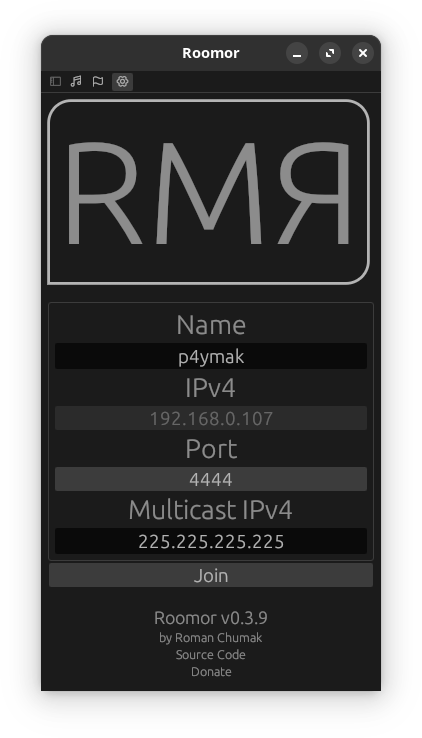
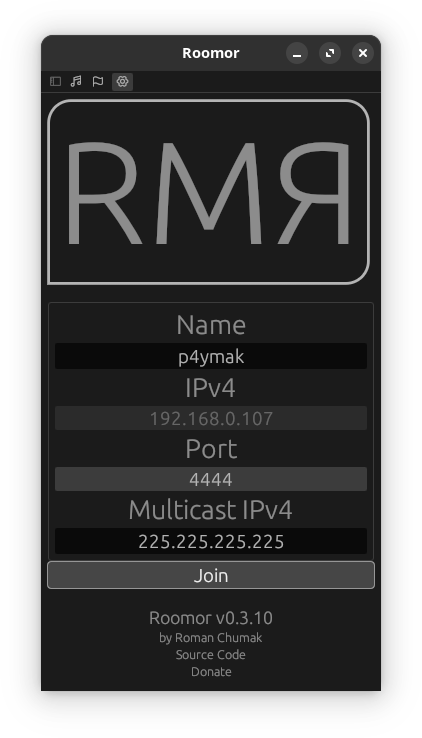
ask for shards fixed

Changed region(s): [[0.3389, 0.748, 0.6469, 0.8415], [0.8626, 0.748, 0.8934, 0.8103], [0.0924, 0.748, 0.1232, 0.8103]]

diff --git a/src/chat/inbox.rs b/src/chat/inbox.rs
@@ -1,7 +1,7 @@
 use super::{
     file::FileLink,
     message::{CheckSum, Command, Id, Part, ShardCount, UdpMessage, CRC},
-    networker::{NetWorker, TIMEOUT_SECOND},
+    networker::NetWorker,
     notifier::Repaintable,
     BackEvent, Content, Presence, Recepients, Seen, TextMessage,
 };
@@ -19,37 +19,18 @@ use std::{
 };
 
 pub type Shard = Vec<u8>;
-// pub const MAX_ATTEMPTS: u8 = 10;
 
 #[derive(Default)]
 pub struct Inbox(BTreeMap<Id, InMessage>);
 impl Inbox {
-    pub fn ask_for_shards(
-        &mut self,
-        networker: &mut NetWorker,
-        ctx: &impl Repaintable,
-        ip: Ipv4Addr,
-    ) {
-        self.0
-            .values_mut()
-            .filter(|m| m.sender == ip)
-            .filter(|m| {
-                SystemTime::now()
-                    .duration_since(m.ts)
-                    .is_ok_and(|d| d > TIMEOUT_SECOND * m.attempt as u32)
-            })
-            .for_each(|m| {
-                m.combine(networker, ctx).ok();
-            });
+    pub fn retain(&mut self, networker: &mut NetWorker, ctx: &impl Repaintable, delta: Duration) {
+        self.0.retain(|_, msg| {
+            !(SystemTime::now()
+                .duration_since(msg.ts)
+                .is_ok_and(|d| d > delta * msg.attempt.max(1) as u32)
+                && (msg.combine(networker, ctx).is_ok()))
+        });
     }
-    // pub fn retain(&mut self, networker: &mut NetWorker, ctx: &impl Repaintable, delta: Duration) {
-    //     self.0.retain(|_, msg| {
-    //         !(SystemTime::now()
-    //             .duration_since(msg.ts)
-    //             .is_ok_and(|d| d > delta)
-    //             && (msg.combine(networker, ctx).is_ok())) // || msg.attempt < MAX_ATTEMPTS))
-    //     });
-    // }
     pub fn insert(&mut self, id: Id, msg: InMessage) {
         self.0.insert(id, msg);
     }
@@ -212,12 +193,17 @@ impl InMessage {
                         break;
                     }
                     debug!("Asked to repeat shards #{range:?}");
-                    networker
-                        .send(
-                            UdpMessage::ask_to_repeat(self.id, Part::AskRange(range)),
-                            Recepients::One(self.sender),
-                        )
-                        .ok();
+                    if matches!(
+                        networker.peers.online_status(Recepients::One(self.sender)),
+                        Presence::Online
+                    ) {
+                        networker
+                            .send(
+                                UdpMessage::ask_to_repeat(self.id, Part::AskRange(range)),
+                                Recepients::One(self.sender),
+                            )
+                            .ok();
+                    }
                 }
             }
 

diff --git a/src/chat/mod.rs b/src/chat/mod.rs
@@ -10,7 +10,7 @@ use self::{
     file::{FileEnding, FileLink},
     inbox::InMessage,
     message::{new_id, DATA_LIMIT_BYTES, MAX_PREVIEW_CHARS},
-    networker::{NetWorker, TIMEOUT_SECOND},
+    networker::NetWorker,
     notifier::Repaintable,
     outbox::Outbox,
 };
@@ -359,7 +359,8 @@ impl UdpChat {
     pub fn receive(&mut self, ctx: &impl Repaintable) {
         for event in self.rx.iter() {
             // FIXME file request timer
-            // self.inbox.retain(&mut self.networker, ctx, TIMEOUT_SECOND);
+            self.inbox
+                .retain(&mut self.networker, ctx, networker::TIMEOUT_SECOND);
 
             match event {
                 ChatEvent::Front(front) => {
@@ -380,7 +381,7 @@ impl UdpChat {
                         r_msg,
                         &self.downloads_path,
                     );
-                    self.inbox.ask_for_shards(&mut self.networker, ctx, r_ip);
+                    // self.inbox.ask_for_shards(&mut self.networker, ctx, r_ip);
                 }
             }
         }
